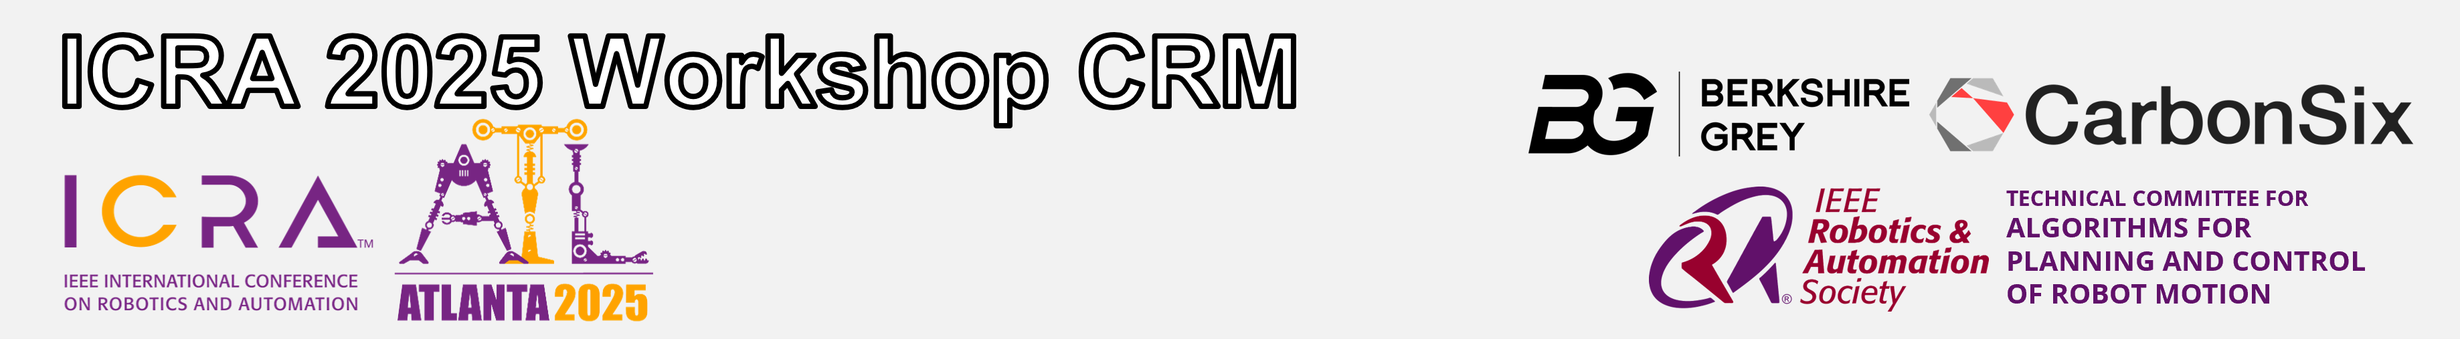
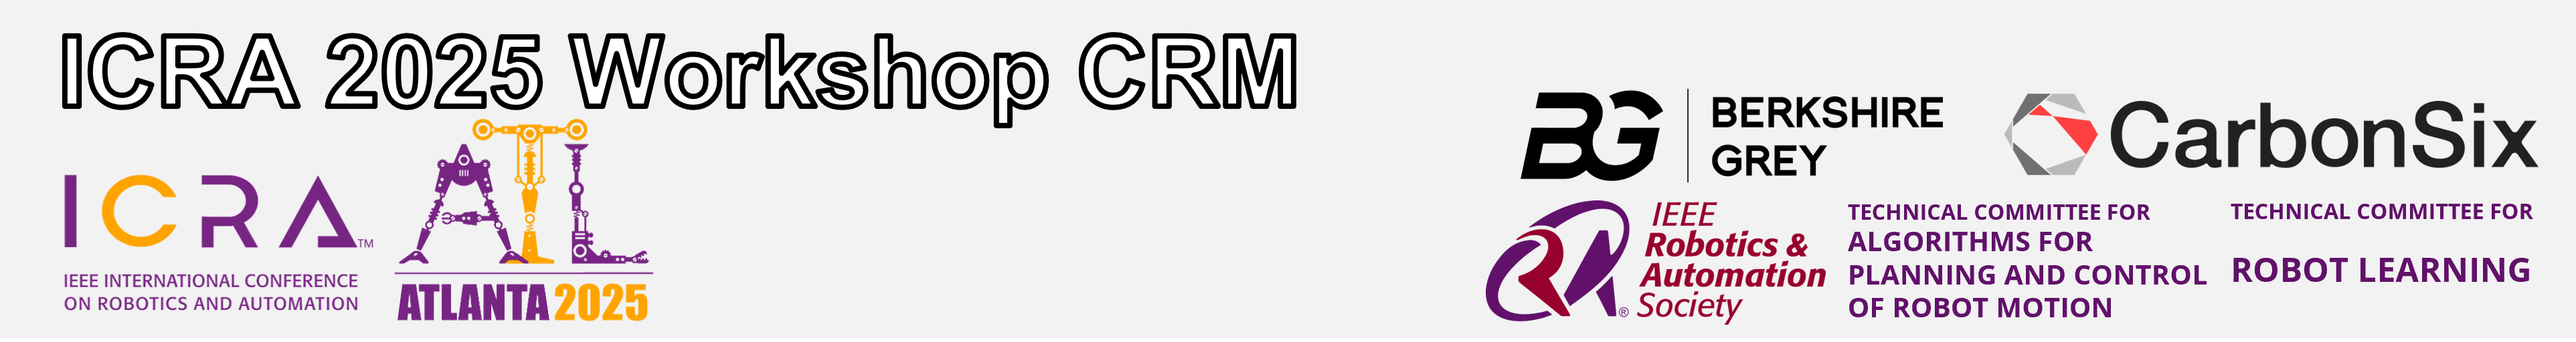
update sponsors

diff --git a/index.md b/index.md
@@ -141,6 +141,14 @@ Submission will be accepted through [OpenReview](https://openreview.net/group?id
             <figcaption style="font-size: 18px; margin-top: 10px;">Technical Committee for Algorithms for Planning and Control of Robot Motion</figcaption>
         </figure>
     </div>
+    <div>
+        <figure style="text-align: center;">
+            <a href="https://www.ieee-ras.org/robot-learning" target="_blank">
+                <img src="assets/img/sponsors/ras-robot-learning-logo.png" style="height: 180px; object-fit: contain;" alt="TC for robot learning" />
+            </a>
+            <figcaption style="font-size: 18px; margin-top: 10px;">Technical Committee for Robot Learning</figcaption>
+        </figure>
+    </div>
     
 </div>
 
